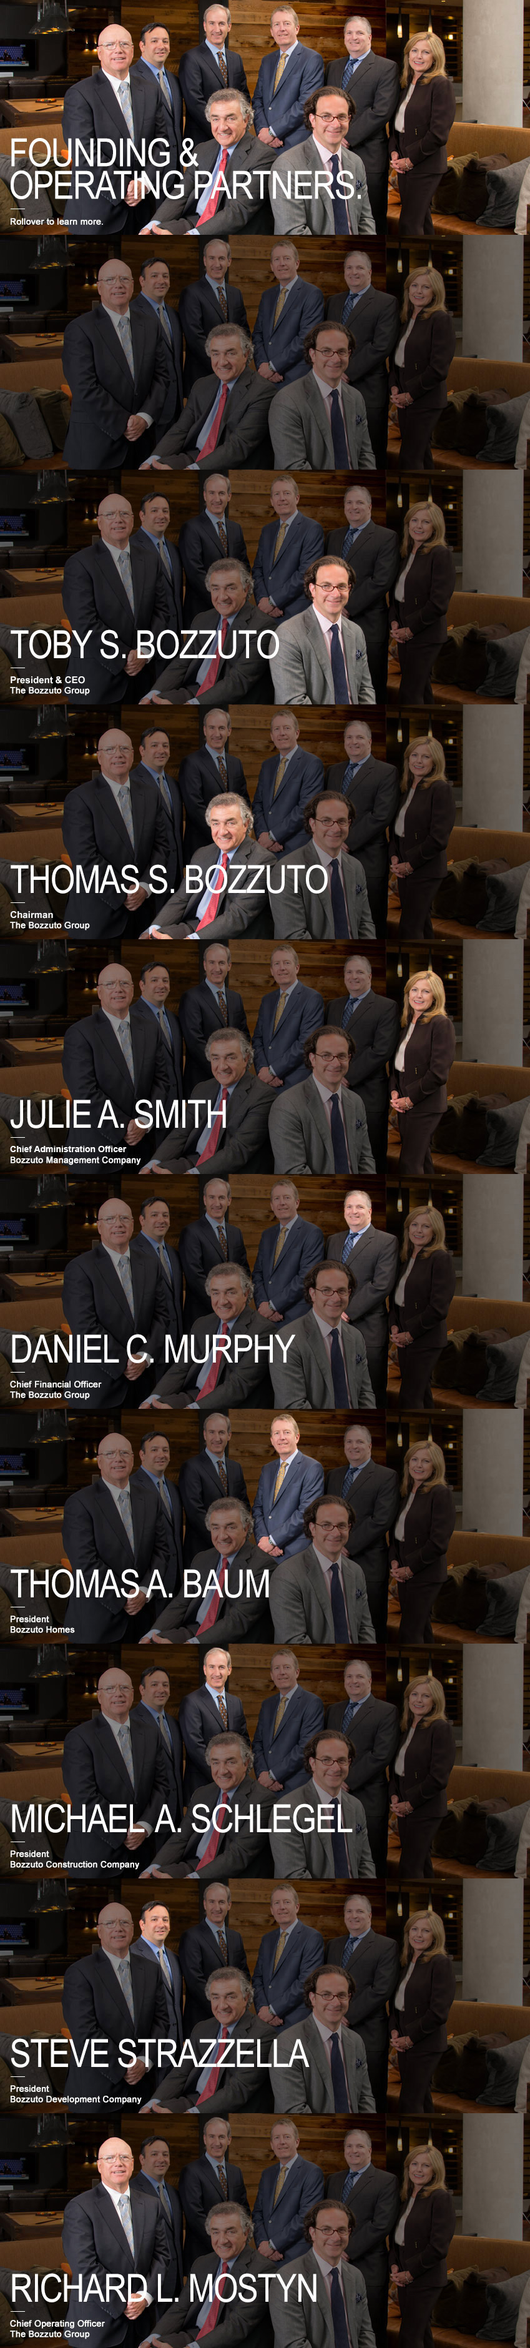
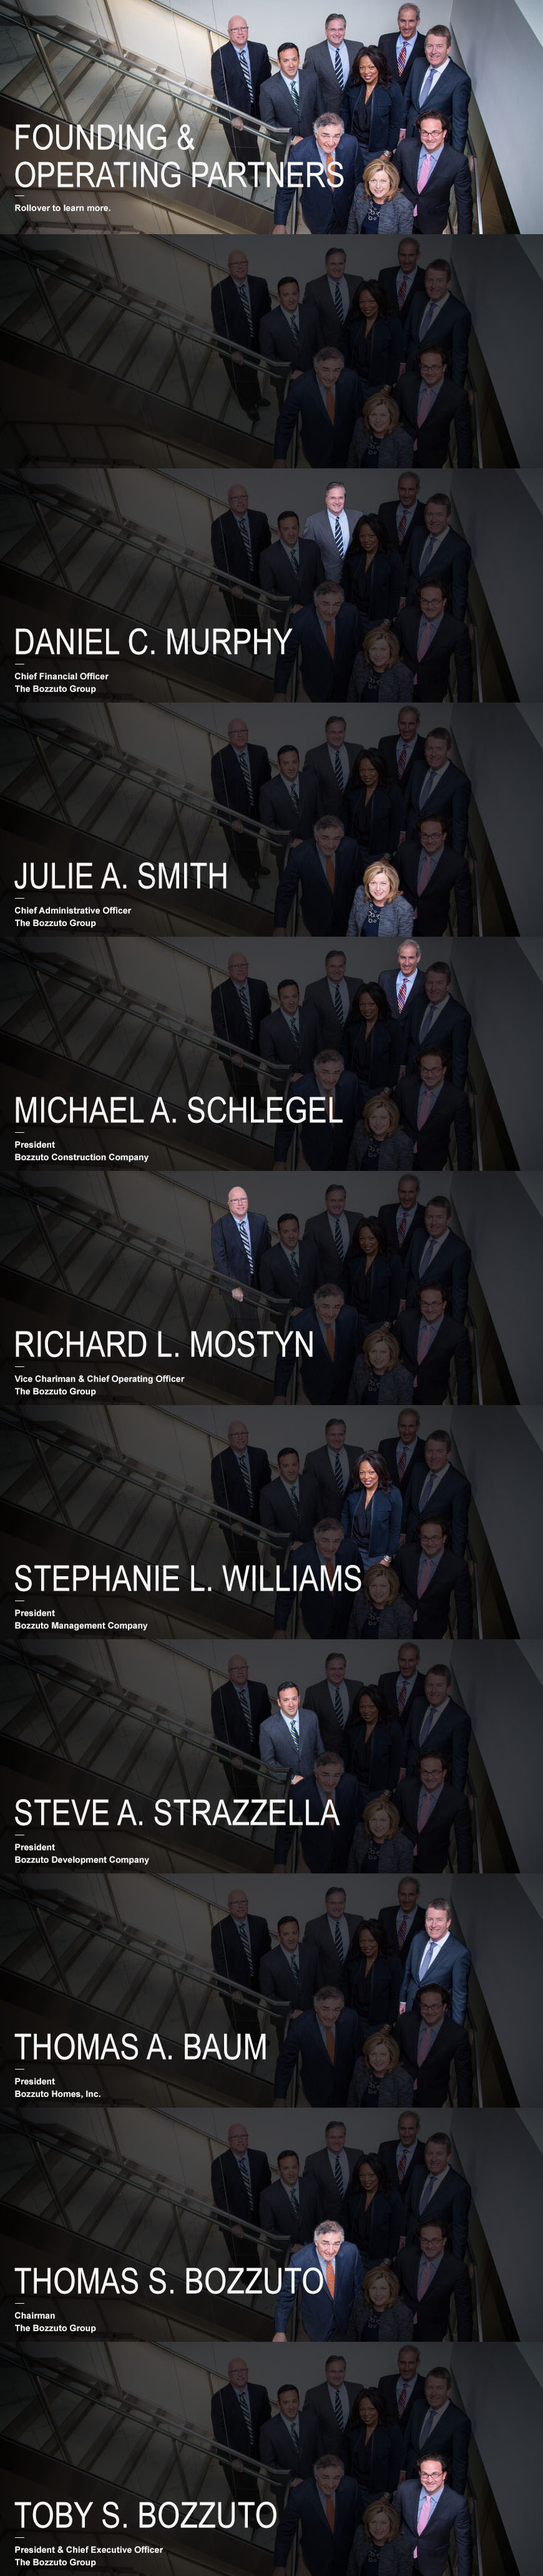
updates leadership image with new faces, new places [updates #193]

diff --git a/app/assets/stylesheets/index.css.scss b/app/assets/stylesheets/index.css.scss
@@ -3568,7 +3568,7 @@ div.wysiwyg .wysiwyg-12pt-font {
       top: -15px;
     }
     .partner-portrait, .partner-portrait-screen, .partner-portrait-images li {
-      height: 376px;
+      height: 375px;
       width: 849px;
     }
     .partner-portrait-screen, .partner-portrait li, .partner-portrait a {
@@ -3593,52 +3593,58 @@ div.wysiwyg .wysiwyg-12pt-font {
       width: 50px;
     }
     .partner-portrait-links .portrait-richard-l .hit1 {
-      height: 376px;
-      width: 85px;
-      left: 135px;
+      height: 150px;
+      width: 90px;
+      left: 340px;
       top: 0px;
     }
     .partner-portrait-links .portrait-steve-s   .hit1 {
-      height: 376px;
+      height: 115px;
       width: 80px;
-      left: 220px;
-      top: 0px;
+      left: 420px;
+      top: 70px;
     }
     .partner-portrait-links .portrait-michael-a .hit1 {
-      height: 150px;
-      width: 90px;
-      left: 300px;
+      height: 75px;
+      width: 85px;
+      left: 595px;
       top: 0px;
     }
     .partner-portrait-links .portrait-thomas-a  .hit1 {
       height: 150px;
-      width: 80px;
-      left: 420px;
-      top: 0px;
+      width: 100px;
+      left: 663px;
+      top: 40px;
     }
     .partner-portrait-links .portrait-daniel-c  .hit1 {
-      height: 150px;
+      height: 90px;
       width: 110px;
-      left: 515px;
+      left: 485px;
       top: 0px;
     }
     .partner-portrait-links .portrait-julie-a   .hit1 {
-      height: 376px;
+      height: 125px;
       width: 90px;
-      left: 640px;
-      top: 0px;
+      left: 570px;
+      top: 250px;
     }
     .partner-portrait-links .portrait-thomas-s  .hit1 {
-      height: 225px;
-      width: 145px;
-      left: 300px;
-      top: 151px;
+      height: 197px;
+      width: 115px;
+      left: 450px;
+      top: 178px;
     }
     .partner-portrait-links .portrait-toby-s    .hit1 {
-      height: 225px;
+      height: 205px;
       width: 145px;
-      left: 450px;
-      top: 151px;
+      left: 650px;
+      top: 171px;
+    }
+    .partner-portrait-links .portrait-stephanie-l    .hit1 {
+      height: 115px;
+      width: 85px;
+      left: 550px;
+      top: 71px;
     }
     .partners .partner-name {
       background: image-url('structure/bg-partner-name.gif') top right no-repeat;
@@ -3650,16 +3656,17 @@ div.wysiwyg .wysiwyg-12pt-font {
       background: #F2F4F5 image-url('structure/bg-partner-portrait.jpg') 0 0 no-repeat;
     }
     .partner-portrait-screen {
-      background-position: 0 -376px;
+      background-position: 0 -375px;
     }
-    .partner-portrait-images .portrait-richard-l { background-position: 0 -3384px; }
-    .partner-portrait-images .portrait-steve-s   { background-position: 0 -3008px; }
-    .partner-portrait-images .portrait-michael-a { background-position: 0 -2632px; }
-    .partner-portrait-images .portrait-thomas-a  { background-position: 0 -2256px; }
-    .partner-portrait-images .portrait-daniel-c  { background-position: 0 -1880px; }
-    .partner-portrait-images .portrait-julie-a   { background-position: 0 -1504px; }
-    .partner-portrait-images .portrait-thomas-s  { background-position: 0 -1128px; }
-    .partner-portrait-images .portrait-toby-s    { background-position: 0 -752px; }
+    .partner-portrait-images .portrait-richard-l      { background-position: 0 -1875px; }
+    .partner-portrait-images .portrait-steve-s        { background-position: 0 -2625px; }
+    .partner-portrait-images .portrait-michael-a      { background-position: 0 -1500px; }
+    .partner-portrait-images .portrait-thomas-a       { background-position: 0 -3000px; }
+    .partner-portrait-images .portrait-daniel-c       { background-position: 0 -750px; }
+    .partner-portrait-images .portrait-julie-a        { background-position: 0 -1125px; }
+    .partner-portrait-images .portrait-thomas-s       { background-position: 0 -3375px; }
+    .partner-portrait-images .portrait-toby-s         { background-position: 0 -3750px; }
+    .partner-portrait-images .portrait-stephanie-l    { background-position: 0 -2250px; }
   /* @end */
 
   /* @group --bios */
